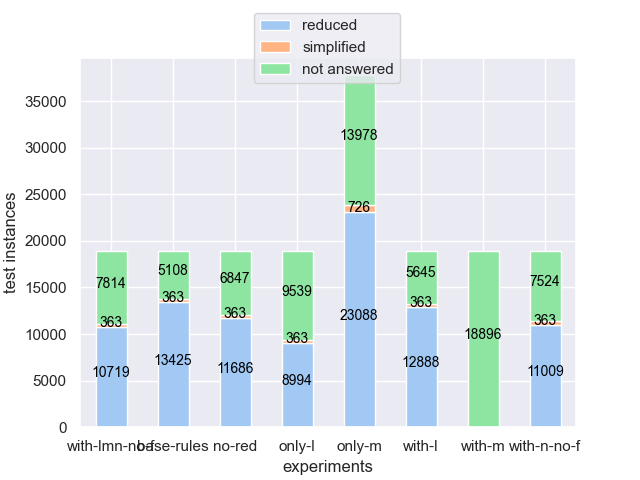
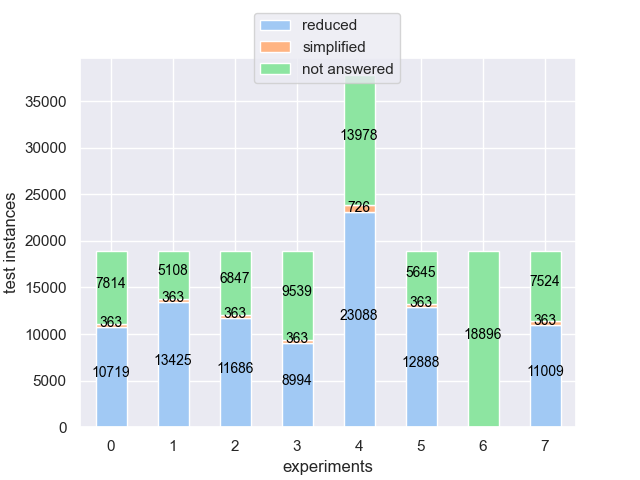
change x-axis in stacked bar plot

diff --git a/graph_utility/answer_simplification_bars.py b/graph_utility/answer_simplification_bars.py
@@ -8,6 +8,10 @@ def plot(data_list, test_names, graph_dir):
     # and columns are answered, not answered, not simplified, simplified and reduced.
     # Some columns are then removed for plotting
     combined = pd.DataFrame()
+
+    print(f"(answer_simplification_bars) map for x-axis:")
+    for index, test_name in enumerate(test_names):
+        print(f"{index} = {test_name}")
     for index, data in enumerate(data_list):
         # Change 'NONE' value to 'not answered', and 'TRUE' and 'FALSE' to 'answered'
         data.loc[data.answer != "NONE", "answer"] = "answered"
@@ -22,8 +26,8 @@ def plot(data_list, test_names, graph_dir):
         # Get counts of 'simplified' and 'not simplified'
         simplifications = (data['solved by query simplification'].value_counts()).to_frame()
         # Combine into same dataframe, with column being the test name, and row indices being above metrics
-        answers.rename(columns={'answer': test_names[index]}, inplace=True)
-        simplifications.rename(columns={'solved by query simplification': test_names[index]}, inplace=True)
+        answers.rename(columns={'answer': index}, inplace=True)
+        simplifications.rename(columns={'solved by query simplification': index}, inplace=True)
         temp = answers.append(simplifications)
 
         columns_to_remove = ['answered', 'not simplified']

diff --git a/graph_utility/time_memory.py b/graph_utility/time_memory.py
@@ -61,7 +61,7 @@ def plot(data_list, test_names, graph_dir):
         title=f'model checking time and memory per test instance',
         ylabel='seconds or kB',
         xlabel='test instances', yscale="log")
-    plt.legend(bbox_to_anchor=(1.02, 0.55), loc='best', borderaxespad=0)
+    plt.legend(bbox_to_anchor=(1.02, 1), loc='best', borderaxespad=0)
 
     plt.savefig(graph_dir + 'time-memory_per_model.png', bbox_inches='tight')
     plt.clf()
